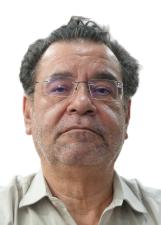
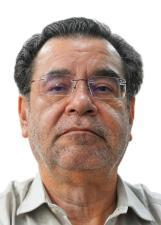
feat(api,web): trilha de indexacao para ficha de fonte oficial
O gate foi calibrado para um produto editorial de 13 perfis escritos e
revisados a mao. O site hoje carrega 519 candidaturas montadas campo a
campo a partir do TSE, e exigir delas assinatura humana deixava 519
paginas fora do indice com o dado pronto no banco -- `/candidatos-
presidente` respondia "nenhum perfil passou pelo gate".

Preencher editorialAuthor/editorialReviewer resolveria o numero e
publicaria, para o leitor, a afirmacao de que alguem revisou cada
perfil. Ninguem revisou. Entao a trilha e que muda.

`isOfficialSourceProfile`: identidade confirmada pelo TSE, situacao
citada na Justica Eleitoral, ficha do registro com fonte e foto com
procedencia gravada. Quem cumpre isso indexa sem assinatura, porque nao
ha redacao humana que uma revisao atestaria. Um modulo substantivo basta
no lugar de tres -- exigir tres excluiria toda candidatura sem mandato
anterior, que e a maioria, por nao ter votacao nem projeto de lei.
Perfil com texto curado segue na trilha editorial, com autoria e revisor
cobrados como antes.

A copy acompanha: as listas deixam de prometer revisao, e o expediente
da ficha diz "Ficha de fonte oficial", com autoria "derivada do registro
no TSE" e revisao "sem revisao humana", em vez de "Revisao concluida".

Junto, as fotos passam a gravar procedencia (pacote de origem e credito
do TSE) -- sem isso a ficha exibia foto sem dizer de onde veio.

Claude-Session: https://claude.ai/code/session_01Lu3qNFexy2Hubww1CHTzVC

diff --git a/packages/api/src/domain/seoQuality.ts b/packages/api/src/domain/seoQuality.ts
@@ -10,6 +10,7 @@ export type SeoBlockerCode =
   | 'introducao_insuficiente'
   | 'trajetoria_sem_fonte'
   | 'menos_de_tres_modulos'
+  | 'sem_modulo_substantivo'
   | 'atualizacao_material_ausente'
   | 'revisao_editorial_ausente'
   | 'aprovacao_editorial_ausente'
@@ -99,6 +100,7 @@ export const SEO_BLOCKER_MESSAGES: Record<SeoBlockerCode, string> = {
   introducao_insuficiente: 'A introdução exclusiva está ausente, curta ou contém placeholder.',
   trajetoria_sem_fonte: 'A trajetória/biografia não possui uma fonte HTTPS registrada.',
   menos_de_tres_modulos: 'Há menos de três módulos substantivos apoiados por fontes.',
+  sem_modulo_substantivo: 'Não há nenhum módulo substantivo apoiado por fonte.',
   atualizacao_material_ausente: 'A última atualização material não foi registrada.',
   revisao_editorial_ausente: 'A revisão editorial não foi registrada.',
   aprovacao_editorial_ausente: 'A aprovação editorial não foi registrada.',
@@ -259,6 +261,29 @@ function substantiveModules(candidate: CandidateQualityInput): SubstantiveModule
   return modules
 }
 
+/**
+ * Perfil montado **inteiramente a partir de fonte oficial**: identidade
+ * confirmada pelo TSE, situação eleitoral citada na Justiça Eleitoral, ficha do
+ * registro com a sua fonte, e foto — quando existe — com procedência gravada.
+ *
+ * Não há aqui texto escrito por pessoa: cada frase é derivada de campo do
+ * registro, e o rodapé de cada bloco diz de onde veio. É por isso que a
+ * assinatura editorial não se aplica — ela atesta redação e revisão humanas, e
+ * exigi-la de um perfil que ninguém redigiu só produzia 519 páginas fora do
+ * índice com o dado pronto no banco.
+ *
+ * O que continua valendo é a garantia que importa: **nada entra sem fonte**.
+ * Perfil com texto curado segue pela trilha editorial, com autoria e revisor.
+ */
+function isOfficialSourceProfile(candidate: CandidateQualityInput): boolean {
+  return (
+    hasText(candidate.tseId, 3) &&
+    isHttpsUrl(candidate.candidacyStatusSourceUrl) &&
+    isHttpsUrl(candidate.bioSourceUrl) &&
+    (candidate.photoUrl == null || isHttpsUrl(candidate.photoSourceUrl))
+  )
+}
+
 export function evaluateCandidateIndexability(
   candidate: CandidateQualityInput,
   options: { now?: Date; staleStatusAfterHours?: number } = {},
@@ -266,6 +291,7 @@ export function evaluateCandidateIndexability(
   const blockers: SeoBlockerCode[] = []
   const warnings: SeoWarningCode[] = []
   const modules = substantiveModules(candidate)
+  const fonteOficial = isOfficialSourceProfile(candidate)
 
   if (
     !hasText(candidate.slug, 3) ||
@@ -321,16 +347,28 @@ export function evaluateCandidateIndexability(
     blockers.push('introducao_insuficiente')
   }
   if (!isHttpsUrl(candidate.bioSourceUrl)) blockers.push('trajetoria_sem_fonte')
-  if (modules.length < 3) blockers.push('menos_de_tres_modulos')
+  // A trilha editorial pede três módulos porque promete um perfil trabalhado.
+  // A oficial pede um: a ficha do registro com a fonte do TSE já é registro
+  // público útil, e exigir três excluiria toda candidatura sem mandato
+  // anterior — que é a maioria — por não ter votação nem projeto de lei.
+  if (fonteOficial) {
+    if (modules.length < 1) blockers.push('sem_modulo_substantivo')
+  } else if (modules.length < 3) {
+    blockers.push('menos_de_tres_modulos')
+  }
 
   const materialUpdatedAt = dateValue(candidate.materialUpdatedAt)
   const reviewedAt = dateValue(candidate.reviewedAt)
   const approvedAt = dateValue(candidate.editorialApprovedAt)
   if (materialUpdatedAt == null) blockers.push('atualizacao_material_ausente')
-  if (reviewedAt == null) blockers.push('revisao_editorial_ausente')
-  if (approvedAt == null) blockers.push('aprovacao_editorial_ausente')
-  if (!hasText(candidate.editorialAuthor, 3)) blockers.push('autoria_ausente')
-  if (!hasText(candidate.editorialReviewer, 3)) blockers.push('revisor_ausente')
+  // Assinatura humana só se cobra de quem produziu texto humano. Ver
+  // `isOfficialSourceProfile`.
+  if (!fonteOficial) {
+    if (reviewedAt == null) blockers.push('revisao_editorial_ausente')
+    if (approvedAt == null) blockers.push('aprovacao_editorial_ausente')
+    if (!hasText(candidate.editorialAuthor, 3)) blockers.push('autoria_ausente')
+    if (!hasText(candidate.editorialReviewer, 3)) blockers.push('revisor_ausente')
+  }
   if (
     materialUpdatedAt != null &&
     ((reviewedAt != null && reviewedAt < materialUpdatedAt) ||

diff --git a/packages/api/src/domain/seoQuality.test.ts b/packages/api/src/domain/seoQuality.test.ts
@@ -204,3 +204,81 @@ test('"teste" sozinho no campo continua sendo placeholder', () => {
     )
   }
 })
+
+
+/**
+ * Trilha "fonte oficial": ficha montada so de dado do TSE, sem texto escrito
+ * por pessoa. Ver `isOfficialSourceProfile`.
+ */
+const fichaOficial: CandidateQualityInput = {
+  ...completeCandidate,
+  tseId: '250002553928',
+  position: 'GOVERNADOR',
+  runningMateName: null,
+  runningMateParty: null,
+  runningMateSourceUrl: null,
+  // Ninguem redigiu nem revisou: e o que a trilha oficial assume.
+  reviewedAt: null,
+  editorialApprovedAt: null,
+  editorialAuthor: null,
+  editorialReviewer: null,
+  photoUrl: '/images/candidates/tse/250002553928.jpg',
+  photoSourceUrl: 'https://cdn.tse.jus.br/estatistica/sead/eleicoes/foto_cand2026_SP_div.zip',
+  photoLicense: 'Foto de urna - Tribunal Superior Eleitoral, dados abertos',
+  // So `trajetoria`: sem proposta, sem votacao, sem bens, sem noticia.
+  proposals: [],
+  votingRecords: [],
+  assetDeclarations: [],
+  campaignFinancings: [],
+  newsItems: [],
+}
+
+test('ficha so de fonte oficial indexa sem assinatura humana', () => {
+  const result = evaluateCandidateIndexability(fichaOficial, {
+    now: new Date('2026-08-07T18:00:00.000Z'),
+  })
+  assert.deepEqual(result.blockers, [])
+  assert.equal(result.indexable, true)
+  // Um modulo basta na trilha oficial; exigir tres excluiria toda candidatura
+  // sem mandato anterior, que e a maioria.
+  assert.deepEqual(result.substantiveModules, ['trajetoria'])
+})
+
+test('sem procedencia da foto a ficha volta a trilha editorial e e cobrada de assinatura', () => {
+  const result = evaluateCandidateIndexability(
+    { ...fichaOficial, photoSourceUrl: null, photoLicense: null },
+    { now: new Date('2026-08-07T18:00:00.000Z') },
+  )
+  assert.equal(result.indexable, false)
+  assert.ok(result.blockers.includes('credito_de_imagem_ausente'))
+  assert.ok(result.blockers.includes('autoria_ausente'))
+  assert.ok(result.blockers.includes('revisor_ausente'))
+})
+
+test('ficha oficial sem nenhum modulo com fonte nao indexa', () => {
+  // Fonte continua registrada (segue na trilha oficial), mas a ficha ficou
+  // curta demais para valer como trajetoria: sem nenhum modulo, nao ha pagina.
+  const result = evaluateCandidateIndexability(
+    { ...fichaOficial, bio: 'Disputa o governo.' },
+    { now: new Date('2026-08-07T18:00:00.000Z') },
+  )
+  assert.equal(result.indexable, false)
+  assert.deepEqual(result.substantiveModules, [])
+  assert.ok(result.blockers.includes('sem_modulo_substantivo'))
+  // A trilha oficial dispensa assinatura, nao a checagem de conteudo.
+  assert.ok(!result.blockers.includes('revisor_ausente'))
+})
+
+test('perfil editorial continua exigindo autoria e revisor', () => {
+  const result = evaluateCandidateIndexability(
+    {
+      ...completeCandidate,
+      editorialAuthor: null,
+      editorialReviewer: null,
+    },
+    { now: new Date('2026-08-07T18:00:00.000Z') },
+  )
+  assert.equal(result.indexable, false)
+  assert.ok(result.blockers.includes('autoria_ausente'))
+  assert.ok(result.blockers.includes('revisor_ausente'))
+})

diff --git a/packages/scraper/src/jobs/syncTseCandidatePhotos.ts b/packages/scraper/src/jobs/syncTseCandidatePhotos.ts
@@ -21,6 +21,13 @@ import { logger } from '../utils/logger'
  * que os 161x225 da foto de urna.
  */
 const PHOTO_ENTRY = /^F([A-Z]{2})(\d+)_div\.jpe?g$/i
+/**
+ * Credito da foto de urna. O TSE publica estas imagens no portal de dados
+ * abertos, e e ele que as divulga; o credito nomeia a fonte, sem afirmar
+ * licenca que o portal nao declara.
+ */
+const PHOTO_CREDIT = 'Foto de urna - Tribunal Superior Eleitoral, dados abertos'
+
 const PUBLIC_DIR = join(
   process.cwd(),
   process.cwd().endsWith('scraper') ? '../..' : '.',
@@ -53,7 +60,10 @@ export async function syncTseCandidatePhotos(): Promise<void> {
           tseId: { not: null },
           ...(positions ? { position: { in: positions } } : {}),
         },
-        select: { id: true, tseId: true, photoUrl: true },
+        select: {
+          id: true, tseId: true, photoUrl: true,
+          photoSourceUrl: true, photoLicense: true,
+        },
       })).flatMap((c) => c.tseId ? [[c.tseId, c] as const] : []),
     )
     logger.info('[tse:photos] candidaturas elegíveis', {
@@ -97,10 +107,24 @@ export async function syncTseCandidatePhotos(): Promise<void> {
         if (!dryRun) {
           writeFileSync(join(PUBLIC_DIR, `${tseId}.jpg`), Buffer.from(bytes))
           written++
-          if (candidate.photoUrl !== photoUrl) {
+          // A procedencia e gravada junto com o arquivo: o pacote de onde a
+          // foto saiu e o credito de quem a publicou. Sem isso a ficha exibe
+          // uma foto sem dizer de onde veio, e o gate -- com razao -- segura a
+          // pagina. E dado que o job ja tem em maos; deixa-lo de fora e que
+          // era a omissao.
+          if (
+            candidate.photoUrl !== photoUrl ||
+            candidate.photoSourceUrl !== resource.url ||
+            candidate.photoLicense !== PHOTO_CREDIT
+          ) {
             await prisma.candidate.update({
               where: { id: candidate.id },
-              data: { photoUrl, materialUpdatedAt: new Date() },
+              data: {
+                photoUrl,
+                photoSourceUrl: resource.url,
+                photoLicense: PHOTO_CREDIT,
+                materialUpdatedAt: new Date(),
+              },
             })
             linked++
           }

diff --git a/packages/web/app/candidatos/[slug]/page.tsx b/packages/web/app/candidatos/[slug]/page.tsx
@@ -159,6 +159,9 @@ export default async function CandidatePage(props: Props): Promise<JSX.Element> 
   const initials = initialsFor(candidate.name)
   // O JSON-LD precisa da URL absoluta; a tag <img> tem de apontar para a
   // origem que serve o arquivo, senão a foto do `public/` só carrega em prod.
+  // O expediente não pode anunciar revisão que não houve: a ficha de fonte
+  // oficial é derivada do registro no TSE, campo a campo, sem redação humana.
+  const revisadoPorPessoa = Boolean(candidate.editorialReviewer?.trim())
   const photoUrl = renderableImageUrl(candidate.photoUrl)
   const photoSchemaUrl = absoluteImageUrl(candidate.photoUrl)
   const officeLabel =
@@ -595,17 +598,23 @@ export default async function CandidatePage(props: Props): Promise<JSX.Element> 
                 Expediente do perfil
               </p>
               <p className="mt-3 font-serif text-xl">
-                {qualification?.indexable ? 'Revisão concluída' : 'Em revisão editorial'}
+                {revisadoPorPessoa
+                  ? 'Revisão editorial concluída'
+                  : qualification?.indexable
+                    ? 'Ficha de fonte oficial'
+                    : 'Fora do índice'}
               </p>
             </div>
             <dl className="space-y-3 text-sm text-ink-muted">
               <div>
                 <dt className="font-mono text-[9px] uppercase tracking-[0.18em]">Autoria</dt>
-                <dd className="mt-1">{candidate.editorialAuthor ?? 'Não informada'}</dd>
+                <dd className="mt-1">
+                  {candidate.editorialAuthor ?? 'Ficha derivada do registro no TSE'}
+                </dd>
               </div>
               <div>
                 <dt className="font-mono text-[9px] uppercase tracking-[0.18em]">Revisão</dt>
-                <dd className="mt-1">{candidate.editorialReviewer ?? 'Pendente'}</dd>
+                <dd className="mt-1">{candidate.editorialReviewer ?? 'Sem revisão humana'}</dd>
               </div>
               <div>
                 <dt className="font-mono text-[9px] uppercase tracking-[0.18em]">Atualização material</dt>

diff --git a/packages/scraper/src/sources/tse/importCandidates.ts b/packages/scraper/src/sources/tse/importCandidates.ts
@@ -144,6 +144,26 @@ function identityTokens(...values: Array<string | null>): Set<string> {
  * contra "FLÁVIO NANTES BOLSONARO"). Comparar os dois lados por nome civil e
  * nome de urna evita duplicar a candidatura.
  */
+/**
+ * Quais revisões abertas escondem a candidatura.
+ *
+ * Reconciliar identidade e existir como candidatura são perguntas diferentes —
+ * é a mesma decisão que o ramo de criação já aplica em `blocksPublication`. Um
+ * `CANDIDACY_CONFLICT` aberto (homônimo editorial único, o caso de quem trocou
+ * de partido entre o seed e o registro) registra em aberto **qual ficha é a
+ * mesma pessoa**, não se a candidatura existe: ela veio do TSE.
+ *
+ * Sem este recorte os dois ramos discordavam. A criação publicava, e a
+ * atualização da passada seguinte via a revisão aberta e despublicava — foi
+ * assim que Carlos Viana (MG) e Eliziane Gama (MA) sumiram do site tendo
+ * registro deferido no TSE.
+ */
+const REVISOES_QUE_BLOQUEIAM = [
+  ReviewItemKind.IDENTITY_AMBIGUITY,
+  ReviewItemKind.DUPLICATE_PERSON,
+  ReviewItemKind.SOURCE_DATA_ERROR,
+] as const
+
 function sharesIdentity(
   candidate: { name: string; socialName: string | null },
   record: TseCandidateRecord,
@@ -463,7 +483,11 @@ export async function importTseCandidates(
 
       if (existingOfficial) {
         const openReview = await prisma.reviewItem.findFirst({
-          where: { candidateId: existingOfficial.id, status: ReviewItemStatus.OPEN },
+          where: {
+            candidateId: existingOfficial.id,
+            status: ReviewItemStatus.OPEN,
+            kind: { in: [...REVISOES_QUE_BLOQUEIAM] },
+          },
           select: { id: true },
         })
         const personResolution = await ensureCandidatePerson(

diff --git a/packages/web/app/senador/[uf]/page.tsx b/packages/web/app/senador/[uf]/page.tsx
@@ -58,7 +58,7 @@ export default async function SenatorPage(props: Props): Promise<JSX.Element> {
   if (!data) notFound()
   const title = `Candidatos ao Senado por ${data.stateName} em 2026`
   return (
-    <LandingPageFrame path={`/senador/${data.code.toLowerCase()}`} eyebrow={`Senado Federal · ${data.code}`} title={title} description={`Perfis qualificados da disputa ao Senado por ${data.stateName}.`} intro={`Consulte os nomes acompanhados para o Senado em ${data.stateName}. Páginas incompletas ou ainda sem revisão não entram nesta seleção.`} dateModified={latestMaterialUpdate(data.candidates)}>
+    <LandingPageFrame path={`/senador/${data.code.toLowerCase()}`} eyebrow={`Senado Federal · ${data.code}`} title={title} description={`Perfis qualificados da disputa ao Senado por ${data.stateName}.`} intro={`Consulte os nomes acompanhados para o Senado em ${data.stateName}. Páginas incompletas ou sem fonte citada não entram nesta seleção.`} dateModified={latestMaterialUpdate(data.candidates)}>
       <section className="container mx-auto px-4 md:px-6 py-14 md:py-20">
         <CandidateLandingList candidates={data.candidates} />
       </section>

diff --git a/packages/web/app/governador/[uf]/page.tsx b/packages/web/app/governador/[uf]/page.tsx
@@ -60,7 +60,7 @@ export default async function GovernorPage(props: Props): Promise<JSX.Element> {
   const title = `Candidatos a governador de ${data.stateName} em 2026`
   const description = `Perfis qualificados da disputa pelo governo de ${data.stateName}, com propostas e fontes.`
   return (
-    <LandingPageFrame path={path} eyebrow={`Governo estadual · ${data.code}`} title={title} description={description} intro={`Acompanhe os nomes da disputa em ${data.stateName}. Só entram nesta lista perfis com status documentado, revisão editorial e conteúdo substantivo apoiado por fontes.`} dateModified={latestMaterialUpdate(data.candidates)}>
+    <LandingPageFrame path={path} eyebrow={`Governo estadual · ${data.code}`} title={title} description={description} intro={`Acompanhe os nomes da disputa em ${data.stateName}. Só entram nesta lista perfis com situação eleitoral documentada e conteúdo apoiado por fontes citadas.`} dateModified={latestMaterialUpdate(data.candidates)}>
       <section className="container mx-auto px-4 md:px-6 py-14 md:py-20">
         <CandidateLandingList candidates={data.candidates} />
       </section>

diff --git a/packages/web/app/candidatos-presidente/page.tsx b/packages/web/app/candidatos-presidente/page.tsx
@@ -37,7 +37,7 @@ export default async function PresidentialCandidatesPage(): Promise<JSX.Element>
       eyebrow="Presidência da República"
       title="Candidatos à Presidência em 2026"
       description={description}
-      intro="A lista reúne apenas perfis que passaram pelo gate de fontes e revisão. A situação exibida diferencia pré-candidatura, escolha em convenção, pedido de registro e decisão da Justiça Eleitoral."
+      intro="A lista reúne perfis montados a partir de dados oficiais do TSE, com a fonte citada em cada campo. Revisão humana só quando há texto editorial. A situação exibida diferencia pré-candidatura, escolha em convenção, pedido de registro e decisão da Justiça Eleitoral."
       dateModified={latestMaterialUpdate(items)}
     >
       <section className="container mx-auto px-4 md:px-6 py-14 md:py-20">

diff --git a/packages/web/app/comparacoes/page.tsx b/packages/web/app/comparacoes/page.tsx
@@ -18,7 +18,7 @@ export default function ComparisonsIndexPage() {
       eyebrow="Comparações seletivas"
       title="Comparações editoriais de candidatos"
       description={metadata.description as string}
-      intro="O comparador continua aberto como ferramenta. Uma comparação só recebe URL indexável quando há demanda, dados completos, síntese própria, fontes por tema e revisão humana."
+      intro="O comparador continua aberto como ferramenta. Uma comparação só recebe URL indexável quando há demanda, dados completos, síntese própria e fontes por tema."
       dateModified="2026-08-07T15:00:00-03:00"
     >
       <section className="container mx-auto px-4 md:px-6 py-14 md:py-20">

diff --git a/packages/web/app/graficos/perfis-por-partido/page.tsx b/packages/web/app/graficos/perfis-por-partido/page.tsx
@@ -198,7 +198,7 @@ export default async function PartyProfilesGraphPage(): Promise<JSX.Element> {
             </p>
             {!ready && (
               <p className="mt-3 font-medium text-ember">
-                Publicação em revisão: nenhum perfil passou integralmente pelo gate editorial.
+                Publicação em preparo: nenhum perfil reúne ainda as fontes exigidas pelo gate.
               </p>
             )}
           </div>

diff --git a/packages/web/components/LandingPage.tsx b/packages/web/components/LandingPage.tsx
@@ -75,7 +75,7 @@ export function LandingPageFrame({
 
 export function CandidateLandingList({
   candidates,
-  emptyMessage = 'Nenhum perfil passou pelo gate editorial para esta página.',
+  emptyMessage = 'Nenhum perfil reúne fontes suficientes para esta página.',
 }: {
   candidates: CandidateSeoReportItem[]
   emptyMessage?: string
